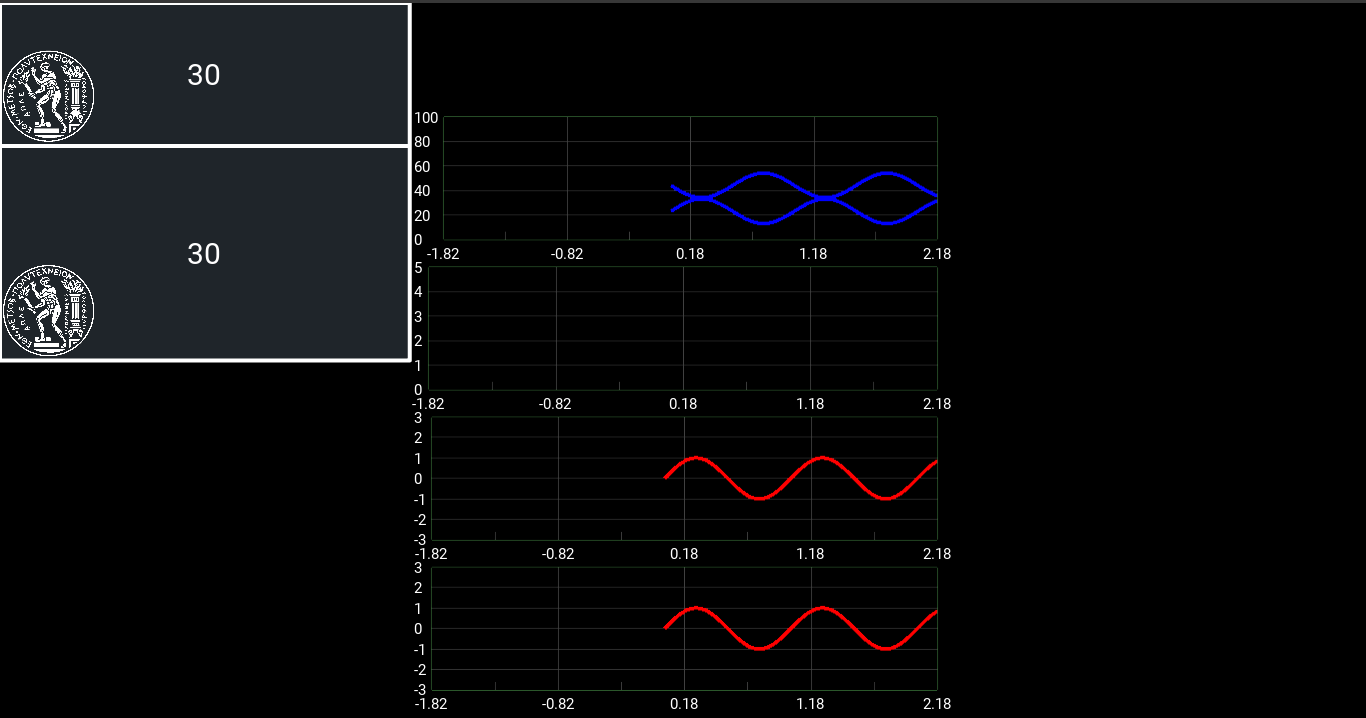
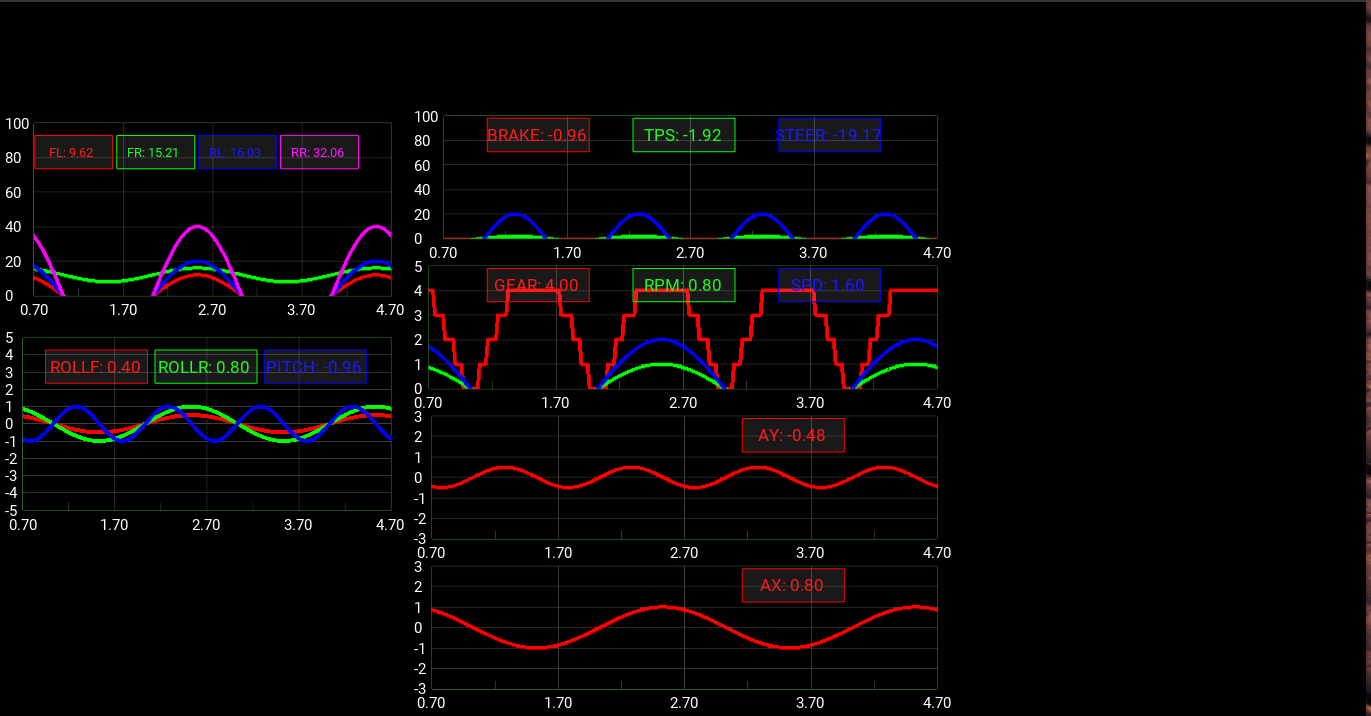
Improved Graphs
PromGraph class is a semi-customizable wrapper for Graph and provides a better interface by containing all the data plots in a single graph object.

diff --git a/Telemetry/telemetry.py b/Telemetry/telemetry.py
@@ -24,8 +24,9 @@ from collections import deque
 
 
 from test import TestWidget
-from graph_widgets import *
-
+from center import *
+from left import *
+from right import *
 def convert(clat,clon):    ##convert gps coords
 	# 3804.1712,02348.9058
 	lat=int(clat[0:2])+round(float(clat[2:9])/60,6)
@@ -36,42 +37,40 @@ def convert(clat,clon):    ##convert gps coords
 if __name__ == '__main__':
 	# ser = serial.Serial('COM3',115200)   ##(for windows)
 	# ser = serial.Serial('/dev/ttyACM0',115200)  ##(for linux)
-	ax_list=deque(maxlen=300)
-	ay_list=deque(maxlen=300)
-	brake=deque(maxlen=300)
-	tps=deque(maxlen=300)
-
 	class TelemetryApp(App):
 		i = 0
 		def build(self):
 			Window.clearcolor = (0,0,0,1)
 			Window.fullscreen = False
+			main_window=FloatLayout()
 			Clock.schedule_interval(lambda *t: self.get_data(), 0.016)
-			main_window.add_widget(
-					TestWidget(
-						value=30,
-						pos_hint={'x':0,'y':0.8},
-						size_hint=(0.3,0.2)
-					))
-			main_window.add_widget(
-					TestWidget(
-						value=30,
-						pos_hint={'x':0,'y':0.5},
-						size_hint=(0.3,0.3)
-					))
+			main_window.add_widget(left_column)
+			main_window.add_widget(center_column)
 			return main_window
 		def get_data(self):
-			ax_list.append((self.i,math.sin(2*math.pi*self.i)))
-			ay_list.append((self.i,math.sin(2*math.pi*self.i)))
-			brake.append((self.i,23+10*math.sin(2*math.pi*self.i)))
-			tps.append((self.i,44-10*math.sin(2*math.pi*self.i)))
+			accel_x.points_list_t[0].append((self.i,math.sin(math.pi*self.i)))
+			accel_y.points_list_t[0].append((self.i,math.sin(2*math.pi*self.i)/2))
+			brake_tps_steering.points_list_t[0].append((self.i,math.sin(2*math.pi*self.i)))
+			brake_tps_steering.points_list_t[1].append((self.i,2*math.sin(2*math.pi*self.i)))
+			brake_tps_steering.points_list_t[2].append((self.i,20*math.sin(2*math.pi*self.i)))
 
-			ax_plot.points=ax_list
-			ay_plot.points=ay_list
-			brake_plot.points=brake
-			tps_plot.points=tps
-			brake_tps_steering.xmax = gear_rpm_speed.xmax = accel_x.xmax = accel_y.xmax = self.i
-			brake_tps_steering.xmin = gear_rpm_speed.xmin = accel_x.xmin = accel_y.xmin = self.i-4
+			gear_rpm_speed.points_list_t[0].append((self.i,int(abs(5*math.sin(math.pi*self.i)))))
+			gear_rpm_speed.points_list_t[1].append((self.i,math.sin(math.pi*self.i)))
+			gear_rpm_speed.points_list_t[2].append((self.i,2*math.sin(math.pi*self.i)))
+
+			roll_pitch.points_list_t[0].append((self.i,0.5*math.sin(math.pi*self.i)))
+			roll_pitch.points_list_t[1].append((self.i,math.sin(math.pi*self.i)))
+			roll_pitch.points_list_t[2].append((self.i,math.sin(2*math.pi*self.i)))
+
+			shock_travel.points_list_t[0].append((self.i,12*math.sin(math.pi*self.i)))
+			shock_travel.points_list_t[1].append((self.i,12+4*math.sin(math.pi*self.i)))
+			shock_travel.points_list_t[2].append((self.i,20*math.sin(math.pi*self.i)))
+			shock_travel.points_list_t[3].append((self.i,40*math.sin(math.pi*self.i)))
+
+
+			accel_x.change = accel_y.change = brake_tps_steering.change = gear_rpm_speed.change = roll_pitch.change = shock_travel.change = True
+			accel_x.xmin = accel_y.xmin =gear_rpm_speed.xmin = brake_tps_steering.xmin = roll_pitch.xmin = shock_travel.xmin = self.i-4
+			accel_x.xmax = accel_y.xmax =gear_rpm_speed.xmax = brake_tps_steering.xmax = roll_pitch.xmax = shock_travel.xmax = self.i
 			self.i+=0.016
 	try:
 		TelemetryApp().run()

diff --git a/Telemetry/center.py b/Telemetry/center.py
@@ -1,12 +1,16 @@
 from kivy.uix.widget import Widget
 from kivy.uix.floatlayout import FloatLayout
+from kivy.uix.relativelayout import RelativeLayout
+
 from customGraph import Graph
 from kivy.garden.graph import LinePlot, MeshLinePlot
+from promGraph import PromGraph
 
 
-
-main_window = FloatLayout()
-accel_x = Graph(
+center_column = FloatLayout()
+accel_x = PromGraph(
+				ylabs=["AX: %.2f"],
+				num_of_plots=1,
 				xlabel='',
 				ylabel='',
 				precisionx='%.2f',
@@ -25,9 +29,11 @@ accel_x = Graph(
 				pos_hint={'x':0.3,'y':0},
 				size_hint=(0.4,0.23)
 				)
-main_window.add_widget(accel_x)
+center_column.add_widget(accel_x)
 
-accel_y = Graph(
+accel_y = PromGraph(
+				ylabs=["AY: %.2f"],
+				num_of_plots=1,
 				xlabel='',
 				ylabel='',
 				precisionx='%.2f',
@@ -46,13 +52,13 @@ accel_y = Graph(
 				pos_hint={'x':0.3,'y':0.21},
 				size_hint=(0.4,0.23)
 				)
-main_window.add_widget(accel_y)
+center_column.add_widget(accel_y)
 
-gear_rpm_speed = Graph(
+gear_rpm_speed = PromGraph(
+				ylabs=["GEAR: %.2f","RPM: %.2f","SPD: %.2f"],
+				num_of_plots=3,
 				xlabel='',
 				ylabel='',
-				ylabel1='RPM',
-				ylabel2='SPEED',
 				precisionx='%.2f',
 				x_ticks_minor=2,
 				x_ticks_major=1,
@@ -73,13 +79,13 @@ gear_rpm_speed = Graph(
 				pos_hint={'x':0.3,'y':0.42},
 				size_hint=(0.4,0.23)
 				)
-main_window.add_widget(gear_rpm_speed)
+center_column.add_widget(gear_rpm_speed)
 
-brake_tps_steering = Graph(
+brake_tps_steering = PromGraph(
+				ylabs=["BRAKE: %.2f","TPS: %.2f","STEER: %.2f"],
+				num_of_plots=3,
 				xlabel='',
 				ylabel='',
-				ylabel1='RPM',
-				ylabel2='SPEED',
 				precisionx='%.2f',
 				x_ticks_minor=2,
 				x_ticks_major=1,
@@ -96,30 +102,6 @@ brake_tps_steering = Graph(
 				pos_hint={'x':0.3,'y':0.63},
 				size_hint=(0.4,0.23)
 				)
-main_window.add_widget(brake_tps_steering)
+center_column.add_widget(brake_tps_steering)
 
-
-ax_plot = LinePlot(line_width=2, color=[1, 0, 0, 1])
-ay_plot = LinePlot(line_width=2, color=[1, 0, 0, 1])
-gear_plot = LinePlot(line_width=2, color=[0, 0, 1, 1])
-rpm_plot = LinePlot(line_width=2, color=[0, 0, 1, 1])
-speed_plot = LinePlot(line_width=2, color=[0, 0, 1, 1])
-tps_plot = LinePlot(line_width=2, color=[0, 0, 1, 1])
-brake_plot = LinePlot(line_width=2, color=[0, 0, 1, 1])
-steering_plot = LinePlot(line_width=2, color=[0, 0, 1, 1])
-
-
-accel_x.add_plot(ax_plot)
-accel_y.add_plot(ay_plot)
-gear_rpm_speed.add_plot(speed_plot)
-gear_rpm_speed.add_plot(rpm_plot)
-gear_rpm_speed.add_plot(gear_plot)
-brake_tps_steering.add_plot(brake_plot)
-brake_tps_steering.add_plot(tps_plot)
-brake_tps_steering.add_plot(steering_plot)
-
-
-
-brake_tps_steering.xmax = gear_rpm_speed.xmax = accel_x.xmax = accel_y.xmax = 5
-brake_tps_steering.xmin = gear_rpm_speed.xmin = accel_x.xmin = accel_y.xmin = 0
 

diff --git a/Telemetry/promGraph.py b/Telemetry/promGraph.py
@@ -1,0 +1,53 @@
+from kivy.uix.widget import Widget
+from kivy.uix.floatlayout import FloatLayout
+from customGraph import Graph
+from kivy.lang import Builder
+from kivy.uix.label import Label
+from kivy.properties import NumericProperty, StringProperty, ListProperty, BooleanProperty
+from kivy.garden.graph import LinePlot, MeshLinePlot
+from hover import HoverBehavior
+from collections import deque
+from customLabel import CustomLabel
+
+RGB=[[1, 0, 0, 1],[0, 1, 0, 1],[0, 0, 1, 1],[1, 0, 1, 1],[0, 1, 1, 1]]
+
+class PromGraph(Graph,Widget,HoverBehavior):
+	num_of_plots = NumericProperty()
+	change = BooleanProperty(False)
+	by_meters = BooleanProperty(False)
+	size_text = StringProperty('17sp')
+	points_list_m = ListProperty([])
+	points_list_t = ListProperty([])
+	diagrams = ListProperty([])
+	labs = ListProperty([])
+	ylabs=ListProperty([])
+
+	def __init__(self, **kwargs):
+		super(PromGraph, self).__init__(**kwargs)
+		for i in range(self.num_of_plots):
+			self.points_list_m.append(deque(maxlen=300))
+			self.points_list_t.append(deque(maxlen=300))
+			self.diagrams.append(LinePlot(line_width=2, color=RGB[i]))
+			self.add_plot(self.diagrams[i])
+			self.labs.append(CustomLabel(text ='', font_size=self.size_text,color=RGB[i],bgclr=RGB[i]))
+			self.add_widget(self.labs[i])
+			print(self.children)
+		self.bind(change = self.update)
+		self.bind(pos = self.shape)
+		self.bind(size = self.shape)
+
+	def update(self,*args):
+		if self.by_meters:
+			for i in range(self.num_of_plots):
+				self.diagrams[i].points = self.points_list_m[i]
+				self.labs[i].text = self.ylabs[i]%self.points_list_m[i][-1][1]
+
+		else:
+			for i in range(self.num_of_plots):
+				self.diagrams[i].points = self.points_list_t[i]
+				self.labs[i].text = self.ylabs[i]%self.points_list_t[i][-1][1]
+		self.change=False
+	def shape(self,*args):
+		w=self.width/self.num_of_plots
+		for i in range(self.num_of_plots):
+			self.labs[i].center = (self.x+(i*0.8+0.7)*w,self.top-self.height/5)

diff --git a/Telemetry/left.py b/Telemetry/left.py
@@ -1,0 +1,56 @@
+from kivy.uix.widget import Widget
+from kivy.uix.floatlayout import FloatLayout
+from kivy.uix.relativelayout import RelativeLayout
+
+from customGraph import Graph
+from kivy.garden.graph import LinePlot, MeshLinePlot
+from promGraph import PromGraph
+
+
+left_column = FloatLayout()
+roll_pitch = PromGraph(
+				ylabs=["ROLLF: %.2f","ROLLR: %.2f","PITCH: %.2f"],
+				num_of_plots=3,
+				xlabel='',
+				ylabel='',
+				precisionx='%.2f',
+				x_ticks_minor=2,
+				x_ticks_major=1,
+				y_ticks_major=1,
+				y_grid_label=True,
+				x_grid_label=True,
+				padding=5,
+				xlog=False,
+				ylog=False,
+				x_grid=True,
+				y_grid=True,
+				ymin=-5,
+				ymax=5,
+				pos_hint={'x':0,'y':0.25},
+				size_hint=(0.3,0.3)
+				)
+left_column.add_widget(roll_pitch)
+
+shock_travel = PromGraph(
+				ylabs=["FL: %.2f","FR: %.2f","RL: %.2f","RR: %.2f"],
+				num_of_plots=4,
+				xlabel='',
+				ylabel='',
+				precisionx='%.2f',
+				size_text='13sp',
+				x_ticks_minor=2,
+				x_ticks_major=1,
+				y_ticks_major=20,
+				y_grid_label=True,
+				x_grid_label=True,
+				padding=5,
+				xlog=False,
+				ylog=False,
+				x_grid=True,
+				y_grid=True,
+				ymin=0,
+				ymax=100,
+				pos_hint={'x':0,'y':0.55},
+				size_hint=(0.3,0.3)
+				)
+left_column.add_widget(shock_travel)

diff --git a/Telemetry/customLabel.py b/Telemetry/customLabel.py
@@ -1,0 +1,36 @@
+#!/usr/bin/env python
+# -*- coding: utf-8 -*-
+import kivy
+kivy.require('1.10.0')
+from kivy.properties import StringProperty
+from kivy.uix.widget import Widget
+from kivy.uix.label import Label
+from kivy.graphics import Rectangle,Color
+from kivy.lang import Builder
+from kivy.uix.image import Image
+from hover import HoverBehavior
+
+from kivy.properties import BooleanProperty, ObjectProperty, NumericProperty,ListProperty
+
+
+Builder.load_string('''
+<CustomLabel>:
+    canvas:
+        Color:
+            rgba: [1,1,1,0.1]
+        Rectangle:
+            pos: self.x+self.font_size if self.font_size<=13 else self.x, self.y+self.size[1]/3
+            size: self.font_size*6,self.size[1]/3
+        Color:
+            rgba: self.bgclr
+        Line:
+            rectangle: self.x+self.font_size if self.font_size<=13 else self.x,self.y+self.height/3,self.font_size*6,self.height/3
+            width: 1
+''')
+
+class CustomLabel(Label,Widget):
+	bgclr = ListProperty([1,1,1,0.1])
+	def __init__(self, bgclr, **kwargs):
+		self.bgclr=bgclr
+		super(CustomLabel, self).__init__(**kwargs)
+

diff --git a/Telemetry/customGraph.py b/Telemetry/customGraph.py
@@ -14,7 +14,7 @@ from kivy.logger import Logger
 from kivy import metrics
 from math import log10, floor, ceil
 from decimal import Decimal
-from hover import HoverBehavior
+
 
 try:
     import numpy as np
@@ -59,7 +59,7 @@ class YAxis(Axis):
     pass
 
 
-class Graph(Widget,HoverBehavior):
+class Graph(Widget):
     '''Graph class, see module documentation for more information.
     '''
 

diff --git a/Telemetry/right.py b/Telemetry/right.py
@@ -1,0 +1,7 @@
+from kivy.uix.widget import Widget
+from kivy.uix.floatlayout import FloatLayout
+from kivy.uix.relativelayout import RelativeLayout
+
+from customGraph import Graph
+from kivy.garden.graph import LinePlot, MeshLinePlot
+from promGraph import PromGraph
